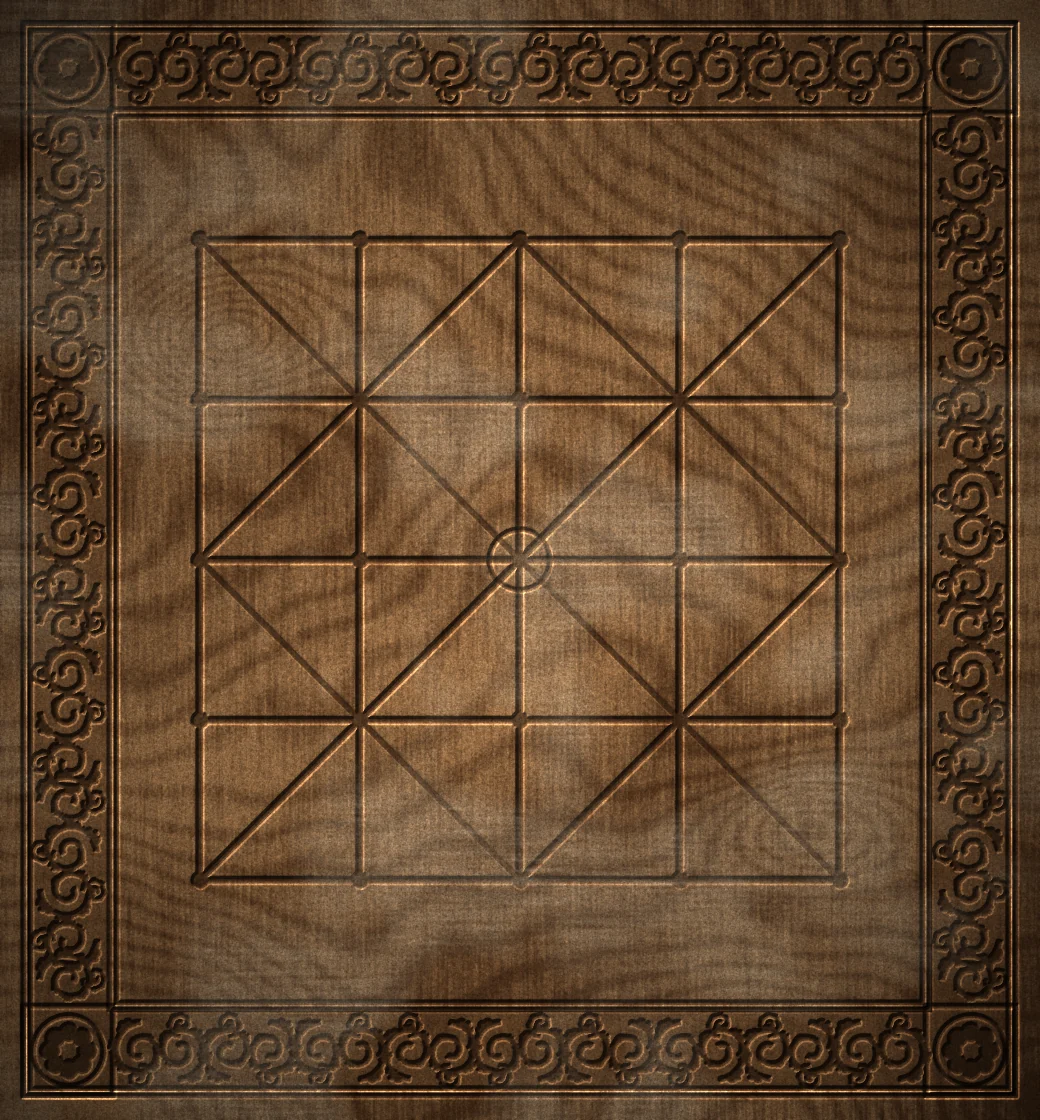
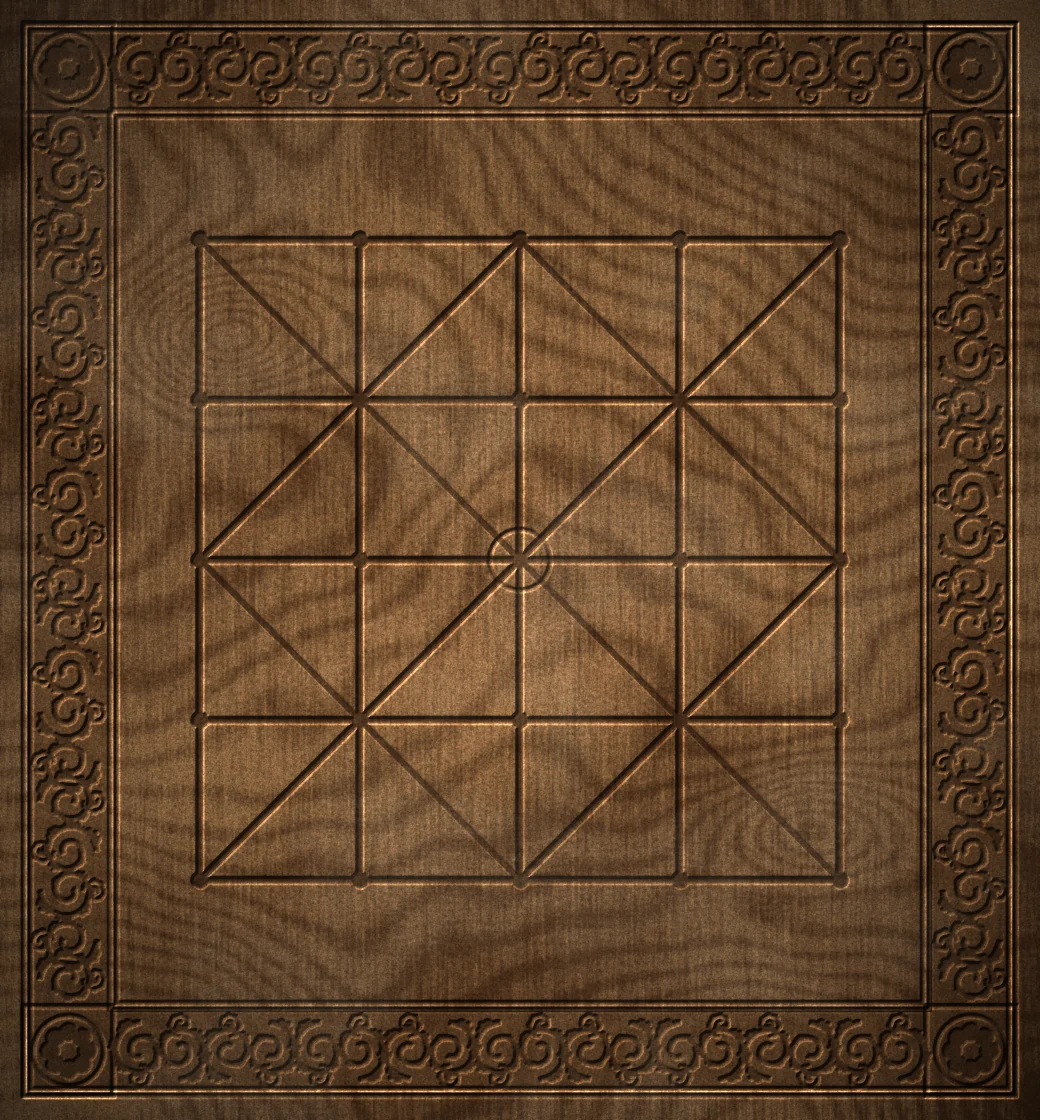
アルケルケ: ヒストリカルの擦れと縁の彫りを控えめに
Claude-Session: https://claude.ai/code/session_01EiWRAYzNyyFMGgYmiTnvUY

diff --git a/alquerque/index.html b/alquerque/index.html
@@ -1211,7 +1211,7 @@ body.hb-on .hb .controls.hb-menu{display:flex!important}
   html:is([data-rule=dimy],[data-rule=telo],[data-rule=alq]) body .app > .rvbox{grid-area:bx;height:auto;max-height:40vh}
 }
 /* ---- Alquerque: historical (carved wood), modern (damask cloth), chalk (slate) — tools/gen_rugs.py */
-html[data-bd=carved]{--wimg:url(img/rug-carved.webp?v=5);--edge:#3a2414;--wdl:#2b190c}
+html[data-bd=carved]{--wimg:url(img/rug-carved.webp?v=6);--edge:#3a2414;--wdl:#2b190c}
 html[data-bd=damask]{--wimg:url(img/rug-damask.webp?v=5);--edge:#26323f;--wdl:#eef2f6}
 html[data-bd=chalk]{--wimg:url(img/rug-chalk.webp?v=1);--edge:#1c1d1e;--wdl:#ecebe6}
 html:is([data-bd=carved],[data-bd=damask],[data-bd=chalk]) .frame{background:var(--wimg) 0 0 / 100% 100%;border-radius:calc(var(--cell) * .1);
@@ -1612,7 +1612,7 @@ html[data-pcs=felt] .pdisc.p1{background:#e6dcc4} html[data-pcs=felt] .pdisc.p2{
 window.GAME = { id: 'alquerque', name: 'Alquerque', base: 'alq', rules: ['alq'], store: 'aicoding-alquerque', img: '../images/atlas/alquerque.webp',
   engine: '../fanorona/engine.js?v=fb2', bd: 'medallion', pcs: 'brass',
   bds: ['medallion', 'kilim', 'patch', 'chalk', 'carved', 'damask', 'abstract', 'dark'], pcss: ['brass', 'felt', 'wood', 'matte', 'flat', 'mono'],
-  bdImg: { carved: 'img/rug-carved.webp?v=5', damask: 'img/rug-damask.webp?v=5', chalk: 'img/rug-chalk.webp?v=1', medallion: 'img/rug-medallion.webp?v=7', kilim: 'img/rug-kilim.webp?v=6', patch: 'img/rug-patch.webp?v=6' },
+  bdImg: { carved: 'img/rug-carved.webp?v=6', damask: 'img/rug-damask.webp?v=5', chalk: 'img/rug-chalk.webp?v=1', medallion: 'img/rug-medallion.webp?v=7', kilim: 'img/rug-kilim.webp?v=6', patch: 'img/rug-patch.webp?v=6' },
   bdPal: { carved: ['#96704a', '#5e4026', '#2b190c'], damask: ['#3a4c60', '#26323f', '#eef2f6'], chalk: ['#2e3032', '#1c1d1e', '#ecebe6'], medallion: ['#962020', '#5a1c40', '#e2b254'], kilim: ['#cc282e', '#ec6e22', '#f4e8d2'], patch: ['#7a3a5a', '#2a608c', '#f4ead6'] },
   pcPal: { wood: [['#e0bc84', '#c49a64', '#7a5634'], ['#7a5232', '#5a3a20', '#2a180a']], matte: [['#ffffff', '#ecebe6', '#bdbab2'], ['#3a3a3c', '#1e1e20', '#0a0a0b']], brass: [['#fff0b8', '#d9ad4a', '#8a6420'], ['#3d5fb8', '#1d3478', '#0b1636']], felt: [['#f6eedc', '#e6dcc4', '#a89a80'], ['#3a5cae', '#1e3a84', '#0e1c48']] } };
 window.OL_VARIANTS = ['alq']; window.OL_DB_PREFIX = 'alq/';

diff --git a/alquerque/tools/gen_rugs.py b/alquerque/tools/gen_rugs.py
@@ -401,7 +401,7 @@ def wood_complex(rng, base, dark):
     return base * (1 - t[..., None]) + dark * t[..., None]
 
 
-def carve(a, m, depth=6.0, groove=(46, 28, 16)):
+def carve(a, m, depth=6.0, groove=(46, 28, 16), dark=.55):
     """relief carving from a mask: the cut is sunk (height -depth), lit from the upper left — walls catch light on one side,
     shadow on the other, the floor is darker and rougher."""
     h = -gaussian_filter(m, .75) * depth
@@ -409,7 +409,7 @@ def carve(a, m, depth=6.0, groove=(46, 28, 16)):
     lam = np.clip(1 + (-gx * -.6 + -gy * -.7) * 1.1, .3, 1.75)
     floor = gaussian_filter(m, .35)
     a = a * lam[..., None]
-    a = a * (1 - .55 * floor[..., None]) + np.array(groove, float) * .55 * floor[..., None]
+    a = a * (1 - dark * floor[..., None]) + np.array(groove, float) * dark * floor[..., None]
     return a
 
 
@@ -461,11 +461,11 @@ def carved(seed=5):
     # the border band is sunk a little (a shallow recess), the motifs are carved into it
     rec = lmask(lambda dd: (dd.rectangle([(m0 + 7) * SS, (m0 + 7) * SS, (W - m0 - 7) * SS, (H - m0 - 7) * SS], fill=255), dd.rectangle([(m1 - 7) * SS, (m1 - 7) * SS, (W - m1 + 7) * SS, (H - m1 + 7) * SS], fill=0)))
     a = carve(a, rec, 3.0, (120, 84, 52)) * 1.0
-    a = carve(a, lmask(scrolls), 7.0)
-    a = carve(a, lmask(rules), 5.0)
+    a = carve(a, lmask(scrolls), 3.8, dark=.3)
+    a = carve(a, lmask(rules), 3.0, dark=.3)
     a = carve(a, lmask(board), 6.0)
     wear = np.clip(fbm(rng, 60, 3) * .8 - .2, 0, 1) * np.clip(.5 + gaussian_filter(rng.standard_normal((H, W)), (1.2, 18)) * 1.2, 0, 1)
-    a = a * (1 - .6 * wear[..., None]) + np.array((220, 204, 178.)) * .6 * wear[..., None]   # white rubbed / dry patches
+    a = a * (1 - .28 * wear[..., None]) + np.array((214, 196, 168.)) * .28 * wear[..., None]   # white rubbed / dry patches
     rough = gaussian_filter(rng.standard_normal((H, W)), .55); rough /= rough.std()
     scr = np.clip(gaussian_filter(rng.standard_normal((H, W)), (.5, 6)) * 2.2 - 3.2, 0, 1)   # fine scratches along the grain
     a *= (1 + .07 * rough + .2 * scr)[..., None]
